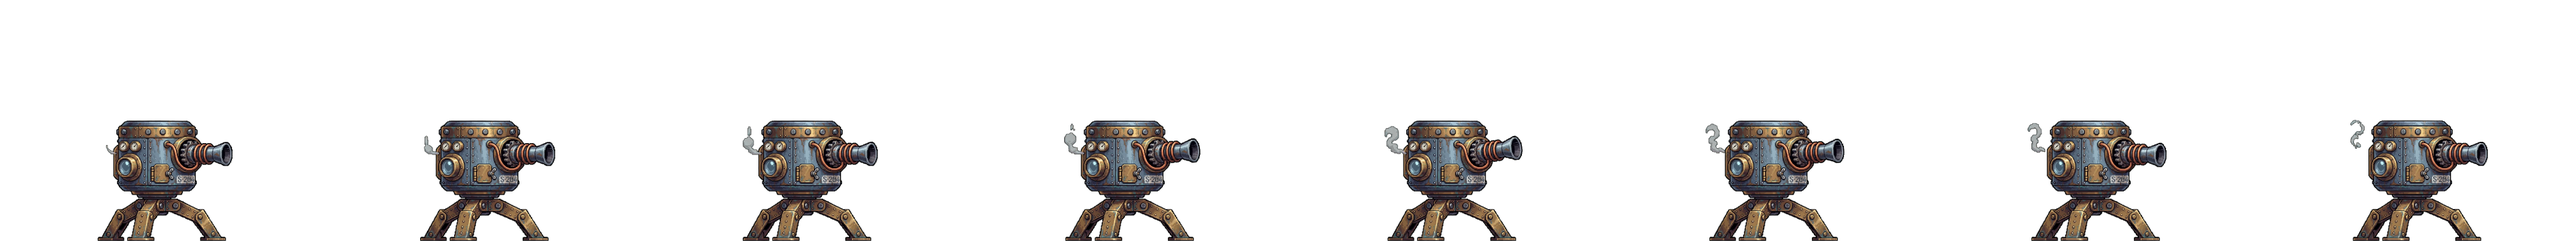
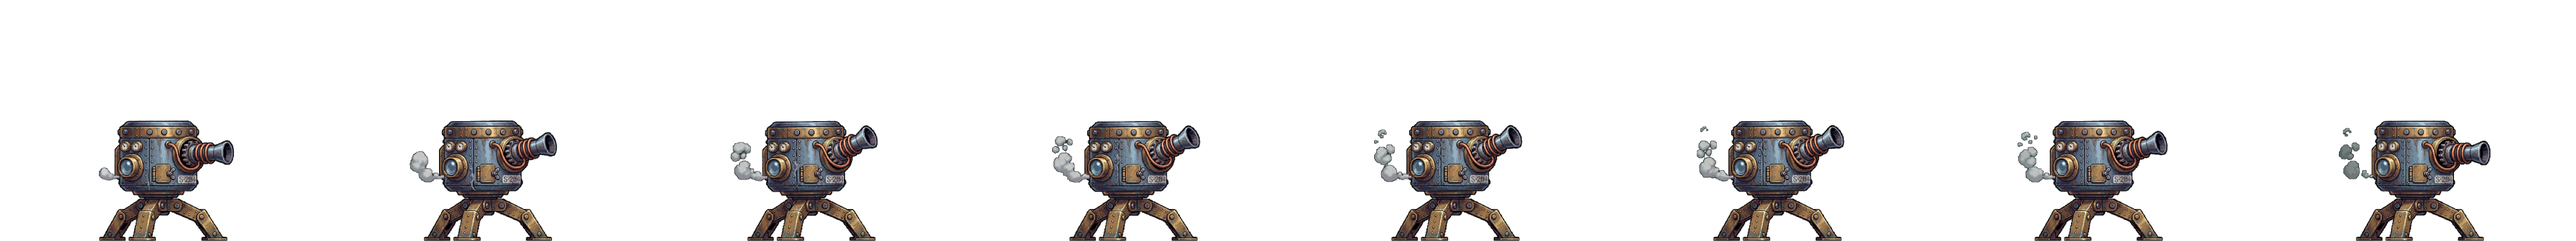
feat(art): brass-sentry/idle re-shot from a PADDED anchor — the last loop waiver is deleted
Owner-approved after the pre-spend STOP, which quoted the command, the prompt,
the price AND the ceiling overrun. $1.19, adopted as one batch.

The prompt is byte-identical to -r3, which is byte-identical to -r2. The ONLY
change was the anchor: padAnchor --fill 0.55 -> 2560^2, top margin 18.8% ->
25.0%. -r3 had failed G6 at top 0px, on an axis no clause constrains
(FRAME_MARGIN governs frame WIDTH only), and the wording lever was already
measured and spent — $4.76 across four clips, "a coin flip".

request_id 01a03c8d-72ac-7cc1-8287-5a2b36ae1241, seed 321260100.

-r4 passes G6 AND passes gateLoopWrap OUTRIGHT: wrap 0.02068 within 0.02273,
where -r2 failed at 0.01371 against 0.01143. Three recorded defects closed by
the art rather than by an edit, each as its own text instructed:
  - every-slug-loop-gate.test.ts WAIVED     -> empty ("delete when it lands")
  - shipped-sheets KNOWN_LOOP_WRAP_FAILURES -> empty, and the "STILL FAILS 4.9"
    assertion INVERTED to "the set must stay empty", so the mechanism cannot
    become a quiet way to exempt a future sheet
  - clip-jobs' "idle is unpadded" pin       -> "idle is padded from its OWN
    canvas" — the real invariant was always one record per KEY, never per slug

Slug scale re-derived 0.28915663 -> 0.36022514 (192/533, was 192/664). fire and
death needed NO re-derive, measured not assumed: the tripod base spans 205px in
all three packed sheets, identical to before. renderHeightPx is fixed at 192, so
[…]

diff --git a/tests/unit/shipped-sheets.test.ts b/tests/unit/shipped-sheets.test.ts
@@ -1,6 +1,6 @@
 import { describe, expect, it } from 'vitest';
 import { readBytes, readPng } from '../../tools/gen/png.mjs';
-import { FAIL, gateAlpha, gateDimensions, gateLoopWrap, gateMotionFloor, PASS } from '../../tools/gen/gates.mjs';
+import { gateAlpha, gateDimensions, gateLoopWrap, gateMotionFloor, PASS } from '../../tools/gen/gates.mjs';
 import type { RgbaImage } from '../../tools/gen/png.d.mts';
 import catalog from '../../public/assets/index.json';
 
@@ -12,7 +12,18 @@ import catalog from '../../public/assets/index.json';
  * failure stays a named, asserted, permanently-red-if-fixed fact instead of a silently skipped one.
  * See docs/qa/phase-05-combat.md.
  */
-const KNOWN_LOOP_WRAP_FAILURES = new Set(['brass-sentry-idle']);
+/**
+ * ✅ **EMPTY as of 2026-08-26, and that is the `-r4` re-shoot landing.** It held
+ * `'brass-sentry-idle'`, whose sheet failed 4.9 at wrap 0.02437 against 0.02032. The padded re-shoot
+ * packs at **0.02068 within 0.02273 — PASS**, so the key is REMOVED rather than the assertion below
+ * being left red, which is exactly what the recorded-defect block used to instruct.
+ *
+ * ⚠ **Kept as a live, empty Set rather than deleted.** The `if` at the bottom of this file reads
+ * it to decide which looping sheets get the 4.9 assertion, and an empty set means EVERY looping sheet
+ * gets it — which is the state this project wants to be in and to notice leaving. Removing the
+ * mechanism would make the next recorded defect a silent edit to the loop condition instead.
+ */
+const KNOWN_LOOP_WRAP_FAILURES = new Set<string>([]);
 
 /**
  * Criteria 4.3, 4.4 and 4.9, run against the **shipped bytes** — which is where they were not.
@@ -201,21 +212,19 @@ describe('the shipped character sheets, read from the files the player loads', (
   }
 
   describe('recorded art defects — kept visible, never silenced (docs/qa/phase-05-combat.md)', () => {
-    it('brass-sentry-idle STILL FAILS 4.9 loop-wrap: the wrap snaps past the clip\'s own largest step', () => {
-      const sheet = catalog.sheets.find((s) => s.key === 'brass-sentry-idle');
-      expect(sheet, 'brass-sentry-idle must stay in the catalog for this defect to stay observable').toBeDefined();
-      const strip = stripFor(sheet!.url);
-      const frames = Array.from({ length: sheet!.frameCount }, (_u, i) =>
-        sliceFrame(strip, i, sheet!.frameWidth, sheet!.frameHeight),
-      );
-      const verdict = gateLoopWrap(frames);
-      // Confirmed independently by `node tools/gen/build-assets.mjs brass-sentry idle`, which
-      // printed `loop: FAIL — wrap 0.02437 exceeds 0.02032 — it snaps`. If this ever turns PASS,
-      // the art was fixed — remove the key from KNOWN_LOOP_WRAP_FAILURES above rather than leaving
-      // this assertion red.
-      expect(verdict.status, `expected this known defect to still FAIL; it PASSED: ${verdict.reason}`).toBe(
-        FAIL,
-      );
+    it('has no entries left: brass-sentry-idle was FIXED by the -r4 re-shoot, not silenced', () => {
+      // 🔴 This block used to assert `brass-sentry-idle` STILL FAILS 4.9, so a recorded defect
+      // could not quietly disappear by someone deleting its key. The defect is now genuinely gone
+      // — wrap 0.02068 within 0.02273 on the padded `-r4` sheet — so the assertion INVERTS rather
+      // than being removed: the set must stay empty until a real new defect is recorded here with
+      // its own measurement, and `brass-sentry-idle` is judged by the ordinary 4.9 loop above like
+      // every other looping sheet.
+      expect(
+        [...KNOWN_LOOP_WRAP_FAILURES],
+        'a key was added to KNOWN_LOOP_WRAP_FAILURES, which EXEMPTS that sheet from criterion 4.9. ' +
+          'That is an owner decision with a measurement behind it, not a way to make a red run ' +
+          'green — record the defect in docs/qa/ first.',
+      ).toEqual([]);
     });
   });
 });

diff --git a/tests/unit/clip-jobs.test.ts b/tests/unit/clip-jobs.test.ts
@@ -226,12 +226,25 @@ describe('CLIP_JOBS — fal submission parameters checked into version control',
       expect(CLIP_JOBS['brass-sentry/fire'].anchorSource).toContain('anchors-padded');
     });
 
-    it('leaves every other sentry action on the unpadded slug anchor', () => {
-      // Padding is per-generation. A slug-wide override would silently re-shoot `idle`, which
-      // already packs, from a canvas it was never measured against.
-      expect(CLIP_JOBS['brass-sentry/idle'].anchorUrl).toBe(SENTRY_UNPADDED);
-      expect(CLIP_JOBS['brass-sentry/idle'].anchorPadded).toBe(false);
-      expect(CLIP_JOBS['brass-sentry/idle'].anchorSha256).toBeNull();
+    it('pads `idle` from its OWN canvas, not fire/death’s — padding is per KEY, never per slug', () => {
+      // 🔴 **This assertion INVERTED on 2026-08-26 and the property it defends did not.** It read
+      // *"leaves every other sentry action on the unpadded slug anchor"*, because at the time `idle`
+      // packed fine and a slug-wide override would have re-shot it from a canvas it was never
+      // measured against. `idle` has since been re-shot deliberately (`-r4`), from a canvas chosen
+      // for IT: `--fill 0.55` → 2560², where `fire` and `death` share a `--fill 0.35` → 4024² one
+      // sized for a muzzle flash and a steam plume that leave the frame. An idle turret has neither.
+      //
+      // So the real invariant was never "only fire is padded" — it is **one padded record per KEY,
+      // never inferred across a slug**, which is what `clipAnchors.mjs` keys and what this now says.
+      const idle = CLIP_JOBS['brass-sentry/idle'];
+      expect(idle.anchorPadded).toBe(true);
+      expect(idle.anchorUrl).not.toBe(SENTRY_UNPADDED);
+      expect(idle.anchorSha256).toMatch(/^[0-9a-f]{64}$/);
+      // The decisive half: `idle` did NOT inherit fire/death's canvas. Same slug, different framing,
+      // deliberately — and `sprite-size-consistency.test.ts` is what proves that is safe (the tripod
+      // base measures 205 px in all three packed sheets).
+      expect(idle.anchorUrl, 'idle inherited fire/death’s canvas — padding was inferred, not declared')
+        .not.toBe(CLIP_JOBS['brass-sentry/fire'].anchorUrl);
     });
 
     it('rejects a padded record whose digest is missing or malformed', () => {

diff --git a/tests/unit/every-slug-loop-gate.test.ts b/tests/unit/every-slug-loop-gate.test.ts
@@ -71,10 +71,19 @@ const catalog = indexJson as unknown as { sheets: CatalogSheet[] };
  * `owed` states what closes it. **Delete the entry when the re-shoot lands; never raise it.**
  */
 const WAIVED: Record<string, { ceiling: number; owed: string }> = {
-  'brass-sentry/idle': {
-    ceiling: 0.0138,
-    owed: 're-shoot; idle is the slug scale source, so it moves every brass-sentry bound',
-  },
+  // 🔴 **EMPTY, and that is the re-shoot landing.** `brass-sentry/idle` was the one entry:
+  // waived 2026-08-23 at `ceiling: 0.0138` against a measured 0.01371, with 0.00009 of headroom and
+  // `owed: 're-shoot'`. The `-r4` padded re-shoot landed 2026-08-26 and the sheet now **PASSES
+  // outright** — wrap 0.02068 within a budget of 0.02273, where `-r2` failed at 0.01371 against
+  // 0.01143. The entry is DELETED rather than re-pointed, exactly as its own text said: *"Delete the
+  // entry when the re-shoot lands; never raise it."*
+  //
+  // ⚠ The raw wrap went UP (0.01371 → 0.02068) while the verdict went from FAIL to PASS, and
+  // that is not a contradiction — `gateLoopWrap`'s budget is derived from the sheet's own median
+  // frame-to-frame step, so a livelier clip earns a larger budget. **This is why the waiver could not
+  // simply be re-pointed at the new number**: an absolute ceiling on `wrap` compares two figures
+  // measured against different budgets. The gate below judges the verdict; the waiver judged a raw
+  // value, which is the narrower thing.
 };
 
 /**

diff --git a/docs/qa/session-tier5-gate-holes-05-reshoot.md b/docs/qa/session-tier5-gate-holes-05-reshoot.md
@@ -1,0 +1,122 @@
+# §5 — the `brass-sentry/idle` re-shoot: **ADOPTED**, and the last loop waiver is gone
+
+**2026-08-26.** Owner-approved after the mandatory pre-spend STOP, which put the rendered command, the
+prompt, the price **and the ceiling overrun** in front of them. **$1.19 spent, adopted as one batch.**
+
+⚠ **This spend went $0.05 over the $55 ceiling** — knowingly, on the owner's explicit decision, with
+the overrun quoted before the money moved. The ceiling was **not raised**. `docs/GENERATION-LOG.md`
+carries the arithmetic and the note that the next generation needs a raise, not a decision.
+
+## What changed, and it was one thing
+
+**The prompt is byte-identical to `-r3`, which is byte-identical to `-r2`.** The only change was the
+anchor.
+
+| take | anchor | verdict |
+|---|---|---|
+| `brass-sentry-idle-r2.mp4` | unpadded 2048² | passed G6, **FAILED `gateLoopWrap`** at 0.01371 against a budget of 0.01143 — shipped under the `0.0138` waiver |
+| `brass-sentry-idle-r3.mp4` | unpadded 2048², same words | **failed G6**: frame 5 of 8, **top margin 0 px**. A discard, $1.19 |
+| **`brass-sentry-idle-r4.mp4`** | **padded 2560² (`padAnchor --fill 0.55`)**, same words | **passes G6 and passes `gateLoopWrap` outright** |
+
+`request_id 01a03c8d-72ac-7cc1-8287-5a2b36ae1241`, seed 321260100, 1 268 608 bytes.
+
+**Why the anchor and not the wording.** `-r3`'s failure was on the **vertical** axis, and
+`FRAME_MARGIN` (`motionClauses.mjs:37`) constrains *"the middle 70 % of the frame **width**, with
+clear green margin at both the **left and right** edges."* Top and bottom are unconstrained, so `-r2`
+and `-r3` passing and failing on the same words is variance on an axis nobody asked about — not a
+regression. And the wording lever was already measured and spent: the withdrawn centring clause cost
+**$4.76** across four clips and came back *"a coin flip."* Padding is a geometric guarantee instead of
+a linguistic request, and it raised the anchor's top margin **18.8 % → 25.0 %**.
+
+## The seven-step transaction, as executed
+
+**1. Schema re-run — no drift.** `genmedia schema bytedance/seedance-2.0/image-to-video` returns
+`prompt`, `image_url`, `end_image_url`, `duration`, `resolution`, `aspect_ratio`, `generate_audio`,
+`bitrate_mode` and `end_user_id` — every one documented in FAL-MODELS.md §3, including the two
+(`bitrate_mode`, `end_user_id`) the last session's note omitted from its own summary. `genmedia
+pricing` still returns **$0.014 / "unit"** with "unit" undefined, so the price put to the owner was
+the `3.10`/`-r3` precedent — same endpoint, resolution and duration — not the CLI's number.
+
+**2. The dependency inventory, taken FIRST.** `idle` sources three scales: the slug `scale`
+(`0.28915663`), `fire.scale` (`0.57558748`) and `death.scale` (`0.44081578`), the latter two derived
+against **idle's tripod span of 205 px**.
+
+**3. Generated under a versioned candidate name.** Landed at
+`_generated/phase05/video/brass-sentry-idle-r4.mp4`. No shipped artifact touched at this point.
+
+**4. Extracted BEFORE deriving.** `node tools/gen/build-clips.mjs brass-sentry idle` → *"8 frames from
+97 — cycle 34 frames (2.9 in clip)"*, G6 clean. ⚠ The `-r3` attempt recorded why the order matters:
+`printDerivedScale` reads the extracted strip, not the clip, so **deriving first prints the previous
+take's measurement under the new take's name.**
+
+**5. Re-derived, then measured rather than assumed.**
+
+```
+idle frame heights: 532, 532, 534, 534, 532, 532, 532, 532
+mean standing height: 533 source px  (spread 2 px, 0.4%)
+scale for a 192 px render height: 0.36022514
+```
+
+🔴 **`fire` and `death` needed NO re-derive, and that is the interesting half** — the `3.10` re-shoot
+forced one and drew the turret 23.4 % small until it was caught. Measured after repacking, not
+inferred:
+
+| sheet | tripod base span |
+|---|---|
+| `brass-sentry-idle` | **205 px** |
+| `brass-sentry-fire` | **205 px** |
+| `brass-sentry-death` | **205 px** |
+
+Identical to before the re-shoot. `renderHeightPx` is fixed at 192, so moving the source-px→game-px
+**ratio** leaves the **rendered** machine exactly as big; only a change in the machine's proportions,
+or an effect-inflated silhouette, can move the tripod — and padding is a pure translation that does
+neither. `sprite-size-consistency.test.ts` is the gate that says so, and it passed unedited.
+
+**6. Adopted as one batch.** Every sheet gate green on the repack:
+
+```
+ok  idle  8 frames  512x384  drawn 241x192  PASS
+      motion:   PASS — peak motion 0.02852 >= floor 0.002
+      adjacent: PASS — closest adjacent pair 4-5 differs by 0.00453 >= 0.0004
+      loop:     PASS — wrap 0.02068 within 0.02273
+ok  fire  6 frames  PASS      ok  death 9 frames  PASS
+```
+
+**7. Spend logged.** `docs/GENERATION-LOG.md`, including the overrun.
+
+## What the adoption deleted, and what it inverted
+
+Three recorded defects were closed by the art rather than by an edit, and each one's own text said how
+to close it:
+
+| artefact | before | now |
+|---|---|---|
+| `every-slug-loop-gate.test.ts` `WAIVED` | `'brass-sentry/idle': { ceiling: 0.0138, owed: 're-shoot' }` | **empty.** *"Delete the entry when the re-shoot lands; never raise it."* |
+| `shipped-sheets.test.ts` `KNOWN_LOOP_WRAP_FAILURES` | `Set(['brass-sentry-idle'])` | **empty**, and the *"STILL FAILS 4.9"* assertion **inverted** to *"the set must stay empty"* — so the mechanism cannot quietly become a way to exempt a future sheet |
+| `clip-jobs.test.ts` | *"leaves every other sentry action on the unpadded slug anchor"* | *"pads `idle` from its OWN canvas"* — see below |
+
+⚠ **The raw wrap went UP (0.01371 → 0.02068) while the verdict went FAIL → PASS, and that is not a
+contradiction.** `gateLoopWrap`'s budget is derived from the sheet's own median frame-to-frame step,
+so a livelier clip earns a larger budget. **It is also why the waiver could not simply be re-pointed
+at the new number:** an absolute ceiling on `wrap` compares two figures measured against different
+budgets. The gate judges the verdict; the waiver judged a raw value, which is the narrower thing.
+
+## The one place this deviates from a recorded convention, stated rather than buried
+
+`clipAnchors.mjs` says *"one padded PNG serves every sentry action."* **That is no longer true of this
+slug.** `fire` and `death` share a `--fill 0.35` → 4024² canvas sized to give a **muzzle flash and a
+steam plume** room; an idle turret has neither, and 0.35 would cost four times the resolution to solve
+a problem it does not have. `idle` has its own `--fill 0.55` → 2560² canvas.
+
+What makes that safe is measured, not assumed: `scale` resolves per `(slug, action)`, and the tripod
+reads 205 px in all three packed sheets. The invariant `clip-jobs.test.ts` now defends is the one that
+was always the real one — **one padded record per KEY, never inferred across a slug.**
+
+⚠ **A provenance drift found while separating the two canvases, and NOT fixed.** `padAnchor.mjs`
+writes every fill to the same `<slug>-padded.png`, so idle's bytes had overwritten fire/death's. The
+idle canvas now lives at `brass-sentry-padded-fill055.png` and the shared path was regenerated at
+`--fill 0.35` — but the regenerated bytes hash `7ce74503…` against the `04d35f22…` recorded for
+`fire`/`death`. **The tool no longer reproduces the historical bytes.** That is pre-existing and
+harmless here: the recorded sha describes the **uploaded** bytes that actually shot those clips, and
+the fal URL is unchanged. Recorded per *(C11)* rather than chased, because nothing reads the local
+file.

diff --git a/docs/QA-LOG.md b/docs/QA-LOG.md
@@ -34,7 +34,7 @@ the index — `docs-contract.test.ts` addresses it by that name.
 | — Tiers 0-5 defect sweep (not a phase) | [qa/session-bugfix-tiers.md](qa/session-bugfix-tiers.md) + [gate owners](qa/session-bugfix-tiers-02-gate-owners.md) | [handoff](HANDOFF.md) | [plan](reviews/session-bugfix-tiers-plan.md) · [impl](reviews/session-bugfix-tiers-impl.md) |
 | — Branch cleanup, a recovered QA brief + the Tier-5 tranche (not a phase) | [qa/session-tier5-and-cleanup.md](qa/session-tier5-and-cleanup.md) + [the recovered brief](qa/phase-09-polish-qa-expert-brief-a.md) | [handoff](HANDOFF.md) | — (no Codex review; a post-merge cleanup, not a planned session) |
 | — Phase 9's six recorded debts, 1a–1f (not a phase) | [qa/session-phase-09-debts.md](qa/session-phase-09-debts.md) + [-02-perf](qa/session-phase-09-debts-02-perf.md) + [-03-gate](qa/session-phase-09-debts-03-gate.md) | [prompt](SESSION-PROMPT-next.md) | plan ✅ **ran before approval — BLOCK, 8 findings applied** · impl pending |
-| — Tier-5 false gates, gate holes, the capture round (not a phase) | [qa/session-tier5-gate-holes.md](qa/session-tier5-gate-holes.md) + [-02-tweens](qa/session-tier5-gate-holes-02-tweens.md) + [-03-sweep](qa/session-tier5-gate-holes-03-sweep.md) + [-04-briefs](qa/session-tier5-gate-holes-04-briefs.md) | [plan](reviews/session-tier5-gate-holes-plan.md) · [impl](reviews/session-tier5-gate-holes-impl.md) | plan ✅ **three rounds, REVISE each** · impl ✅ **BLOCK, 11 findings, all 11 applied** — incl. a 9.3 teardown rule that stayed GREEN on a real violation. Full sweep green after it: e2e 136 + 109, unit 169/2541, sim-isolated 2538 + 3 skipped, build ok |
+| — Tier-5 false gates, gate holes, the capture round (not a phase) | [qa/session-tier5-gate-holes.md](qa/session-tier5-gate-holes.md) + [-02-tweens](qa/session-tier5-gate-holes-02-tweens.md) + [-03-sweep](qa/session-tier5-gate-holes-03-sweep.md) + [-04-briefs](qa/session-tier5-gate-holes-04-briefs.md) + [-05-reshoot](qa/session-tier5-gate-holes-05-reshoot.md) | [plan](reviews/session-tier5-gate-holes-plan.md) · [impl](reviews/session-tier5-gate-holes-impl.md) | plan ✅ **three rounds, REVISE each** · impl ✅ **BLOCK, 11 findings, all 11 applied** — incl. a 9.3 teardown rule that stayed GREEN on a real violation. Full sweep green after it: e2e 136 + 109, unit 169/2541, sim-isolated 2538 + 3 skipped, build ok |
 
 > Phase 4's row was missing entirely until Phase 5 added it: the log was written and the index was
 > not updated. Nothing enforces the index, which is why it drifted — `docs-contract.test.ts` reads

diff --git a/docs/GENERATION-LOG.md b/docs/GENERATION-LOG.md
@@ -276,3 +276,10 @@ footstep and a landing are live on that tick, and a worst case should over-state
 
 **Running total: $53.86 of the $55 ceiling. $1.14 remains — less than one generation on this endpoint,
 so the next re-shoot is a CEILING decision, not a budget one.**
+
+| [qa/session-tier5-gate-holes-05-reshoot.md](qa/session-tier5-gate-holes-05-reshoot.md) | ✅ **`brass-sentry/idle` re-shoot — ADOPTED, and it closed the last waiver.** `01a03c8d-72ac-7cc1-8287-5a2b36ae1241`, seed 321260100. Prompt **byte-identical** to `-r3` and `-r2`; the only change was the anchor, padded with `padAnchor --fill 0.55` to 2560² (top margin 18.8 % → 25.0 %). `-r3` had failed G6 at **top 0 px** on an axis no clause constrains, and the wording lever was already recorded as spent ($4.76, "a coin flip"). **Passes G6 and passes `gateLoopWrap` OUTRIGHT** — wrap 0.02068 within 0.02273, where `-r2` failed at 0.01371 against 0.01143 — so the `0.0138` waiver in `every-slug-loop-gate.test.ts` was **deleted**, as its own `owed` line required. Slug `scale` re-derived 0.28915663 → **0.36022514**; `fire`/`death` needed **no** re-derive, tripod measured at **205 px in all three sheets** | `bytedance/seedance-2.0/image-to-video` | 1 · $1.19 |
+
+**Running total: $55.05 of the $55 ceiling — ⚠ $0.05 OVER, on the owner's explicit decision of
+2026-08-26, taken with the overrun quoted before the spend.** The ceiling has not been raised; it has
+been knowingly exceeded by one generation, and the amount is recorded here rather than absorbed. **The
+next generation on this endpoint needs a ceiling raise, not a decision.**
